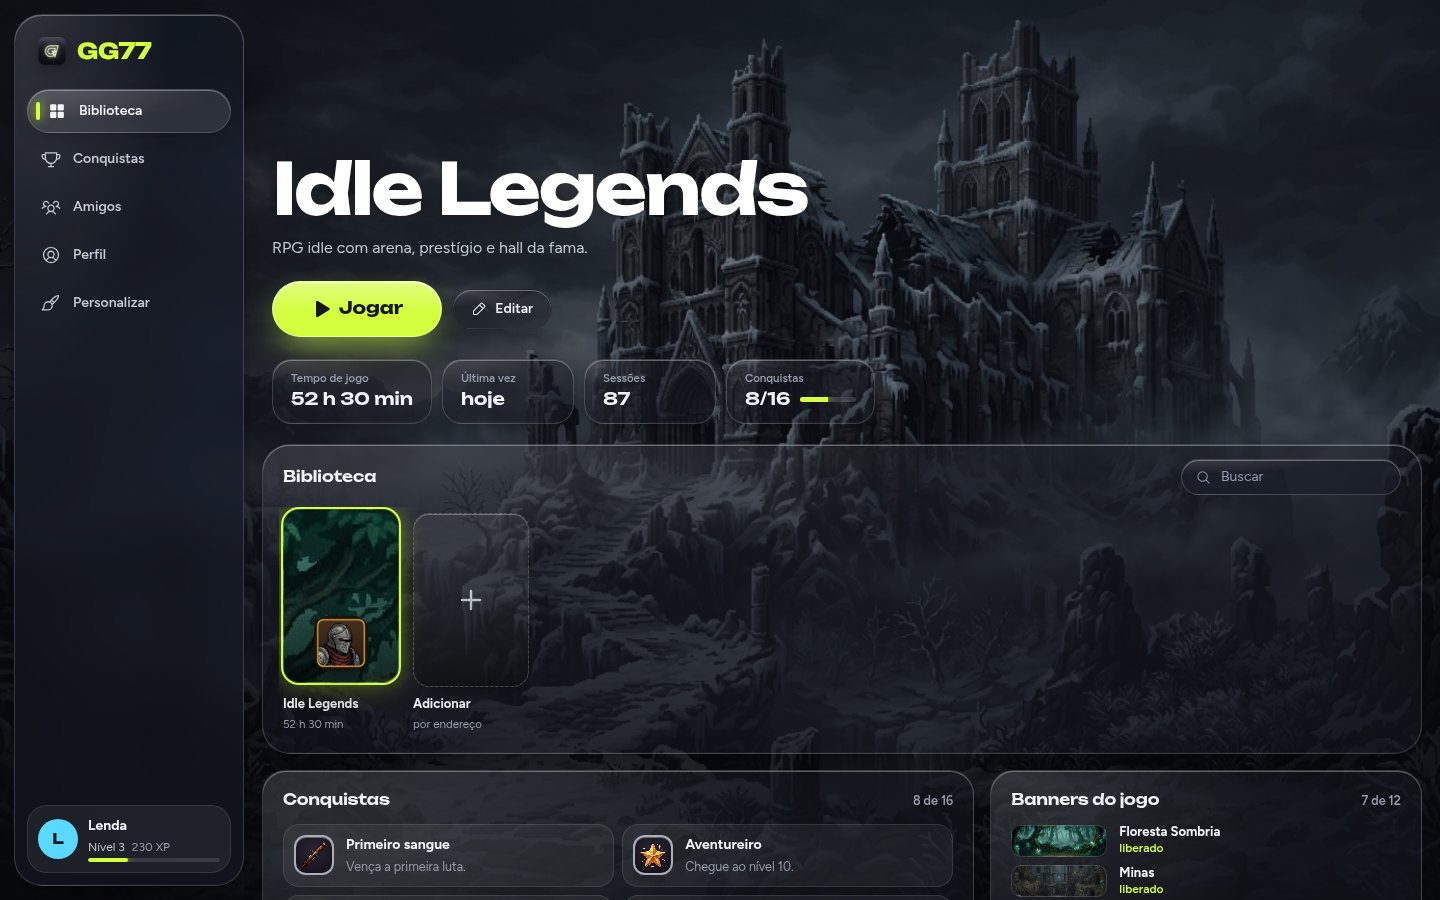
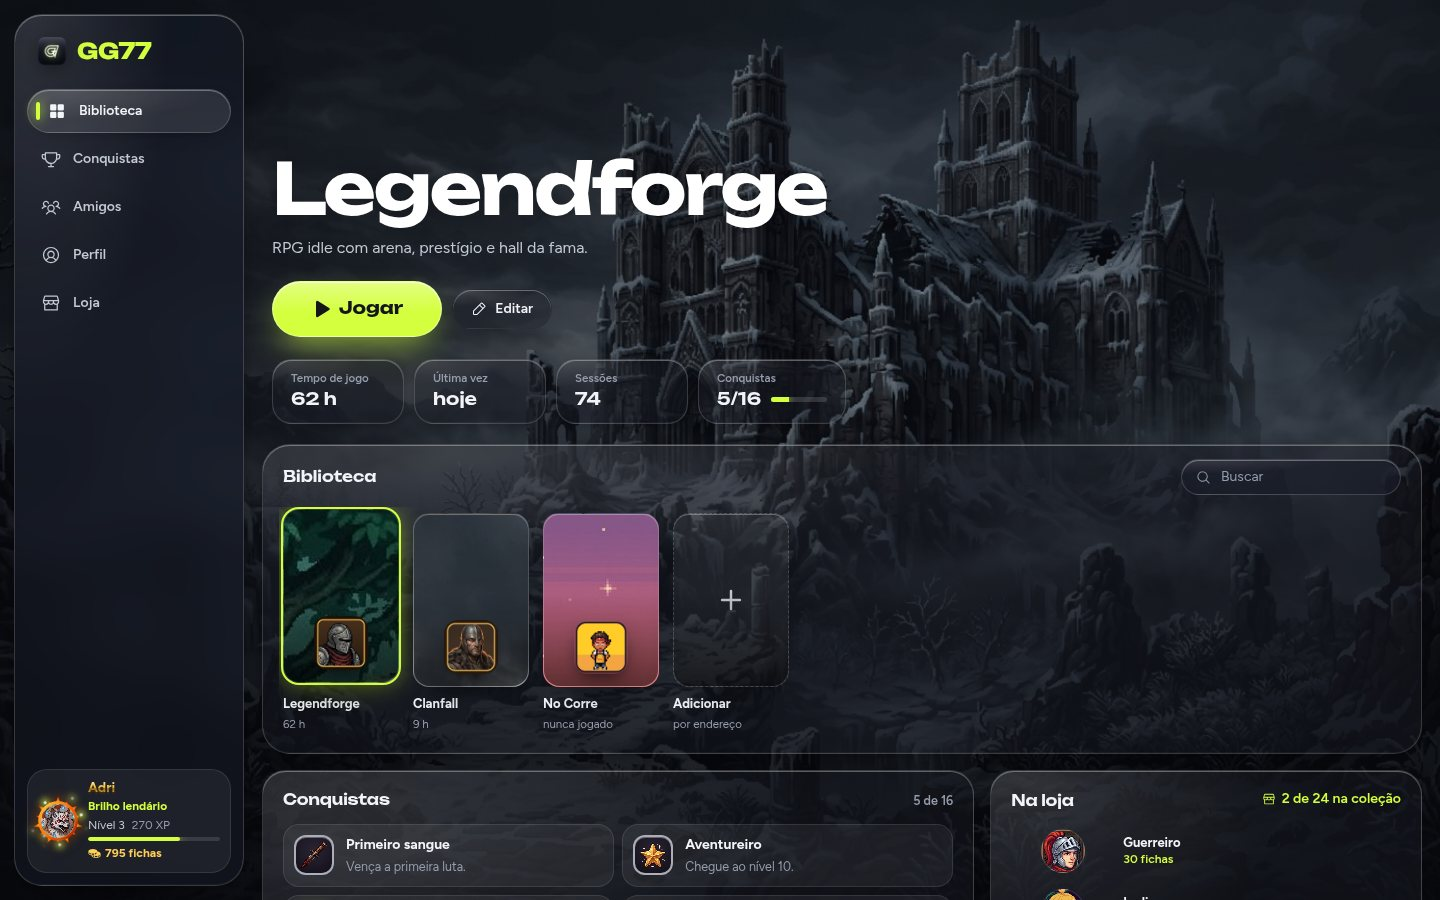
site: página de download do launcher

diff --git a/index.html b/index.html
@@ -387,6 +387,68 @@
         gap: 16px;
       }
 
+      /* perfil e loja */
+      .style {
+        display: grid;
+        grid-template-columns: minmax(0, 1.35fr) minmax(0, 1fr);
+        gap: 28px;
+        align-items: center;
+      }
+
+      .style figure {
+        position: relative;
+        margin: 0;
+        padding: 10px;
+        border-radius: 26px;
+      }
+
+      .style figure img {
+        display: block;
+        width: 100%;
+        height: auto;
+        border-radius: 18px;
+      }
+
+      .style ul {
+        display: grid;
+        gap: 18px;
+        margin: 0;
+        padding: 0;
+        list-style: none;
+      }
+
+      .style li {
+        display: grid;
+        grid-template-columns: 44px minmax(0, 1fr);
+        gap: 14px;
+        align-items: start;
+      }
+
+      .style li i {
+        display: grid;
+        place-items: center;
+        width: 44px;
+        height: 44px;
+        border-radius: 14px;
+        background: rgb(212 255 63 / 0.12);
+        color: var(--accent);
+        font-size: 24px;
+      }
+
+      .style h3 {
+        margin: 2px 0 4px;
+        font-family: var(--display);
+        font-size: 17px;
+        font-weight: 700;
+        letter-spacing: -0.02em;
+      }
+
+      .style li p {
+        margin: 0;
+        color: var(--ink-2);
+        font-size: 15px;
+      }
+
       /* jogos */
       .game {
         display: grid;
@@ -525,6 +587,7 @@
         }
         .perks,
         .steps,
+        .style,
         .perk-row {
           grid-template-columns: 1fr;
         }
@@ -600,7 +663,7 @@
             <p class="others" id="others">Windows 10/11 e Linux, 64 bits.</p>
           </div>
           <figure class="shot glass">
-            <img src="img/biblioteca.jpg" width="1440" height="900" alt="Biblioteca do GG77 Launcher com o Legendforge, tempo de jogo, sessões e conquistas" />
+            <img src="img/biblioteca.jpg" width="1440" height="900" alt="Biblioteca do GG77 Launcher com Legendforge, Clanfall e No Corre, tempo de jogo, sessões e conquistas" />
           </figure>
         </section>
       </main>
@@ -642,6 +705,41 @@
               <p>Logado no launcher, você entra direto nos jogos.</p>
             </article>
           </div>
+        </div>
+      </div>
+    </section>
+
+    <section class="block" aria-labelledby="style-title">
+      <div class="wrap">
+        <h2 id="style-title">Seu perfil, do seu jeito</h2>
+        <p>Jogar rende fichas: cada conquista, hora jogada e nível conta. Na loja do launcher elas viram visual para o seu perfil e para o próprio launcher.</p>
+        <div class="style">
+          <figure class="glass">
+            <img src="img/perfil.jpg" width="1440" height="900" alt="Perfil no GG77 Launcher com avatar de raposa, moldura de chamas, banner de cerejeiras e nome dourado" loading="lazy" />
+          </figure>
+          <ul>
+            <li>
+              <i class="ph ph-storefront" aria-hidden="true"></i>
+              <div>
+                <h3>Loja de visuais</h3>
+                <p>Avatares com a arte dos jogos, banners, molduras animadas, efeitos e estilos de nome. Prove no seu perfil antes de comprar.</p>
+              </div>
+            </li>
+            <li>
+              <i class="ph ph-user-circle" aria-hidden="true"></i>
+              <div>
+                <h3>Perfil que os amigos veem</h3>
+                <p>Monte o cartão com o que você colecionou. É o mesmo cartão que aparece quando um amigo abre o seu perfil.</p>
+              </div>
+            </li>
+            <li>
+              <i class="ph ph-paint-brush" aria-hidden="true"></i>
+              <div>
+                <h3>Launcher com a sua cara</h3>
+                <p>Temas, fundos animados, biblioteca em carrossel, grade ou lista, barra lateral compacta e de qualquer lado.</p>
+              </div>
+            </li>
+          </ul>
         </div>
       </div>
     </section>
